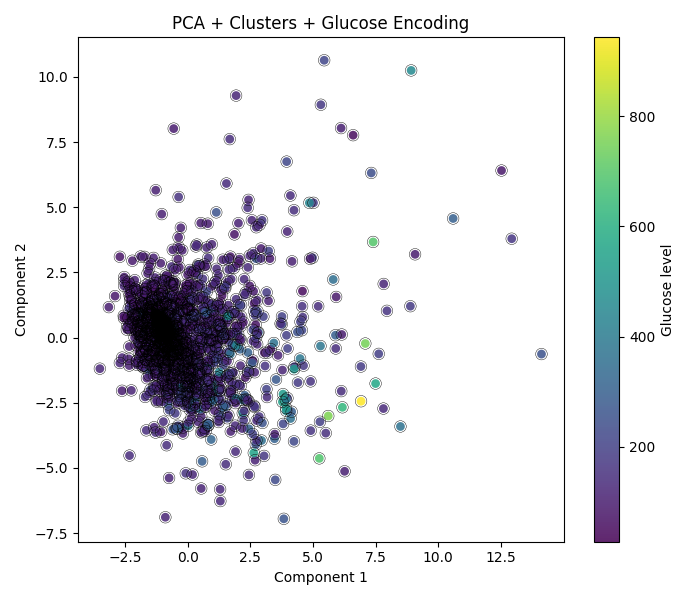
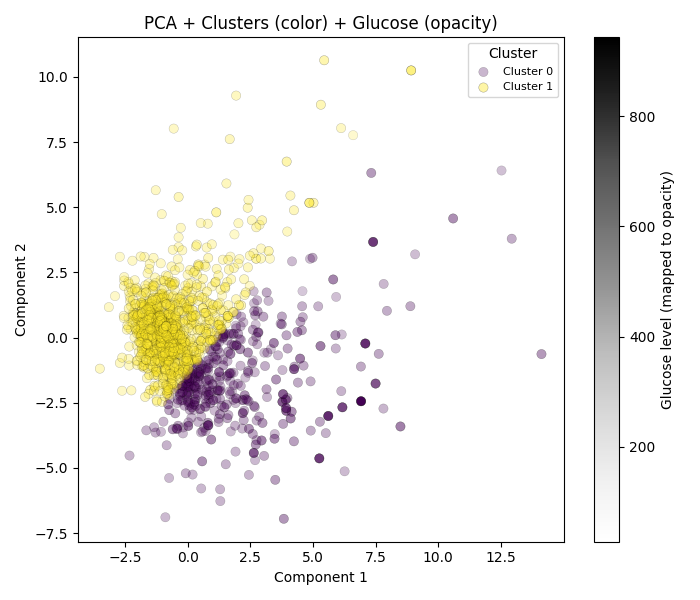
updated 3rd part

diff --git a/scripts/dim_reduction_clustering.py b/scripts/dim_reduction_clustering.py
@@ -1,5 +1,7 @@
 import matplotlib.pyplot as plt
 import numpy as np
+from matplotlib.cm import ScalarMappable
+from matplotlib.colors import Normalize
 from sklearn.decomposition import PCA
 from sklearn.manifold import TSNE
 from sklearn.cluster import KMeans
@@ -69,38 +71,39 @@ def encode_glucose_in_scatterplot(reduced_x, cluster_labels, df, method_name, sa
     if glucose_col not in df.columns:
         raise ValueError(f"Column '{glucose_col}' not found in dataframe.")
 
-    glucose_values = df[glucose_col]
+    glucose_values = df[glucose_col].fillna(df[glucose_col].median())
 
-    glucose_values = glucose_values.fillna(glucose_values.median())
+    g_min, g_max = glucose_values.min(), glucose_values.max()
+    glucose_alpha = 0.2 + 0.8 * (glucose_values - g_min) / (g_max - g_min)
 
-    plt.figure(figsize=(7, 6))
-    scatter = plt.scatter(
-        reduced_x[:, 0],
-        reduced_x[:, 1],
-        c=glucose_values,
-        cmap="viridis",
-        alpha=0.85,
-        s=40,
-        edgecolor="none"
-    )
+    cmap = plt.cm.get_cmap("viridis", len(np.unique(cluster_labels)))
 
-    plt.title(f"{method_name} + Clusters + Glucose Encoding")
-    plt.xlabel("Component 1")
-    plt.ylabel("Component 2")
+    fig, ax = plt.subplots(figsize=(7, 6))
 
     for cluster_id in np.unique(cluster_labels):
-        cluster_points = reduced_x[cluster_labels == cluster_id]
-        plt.scatter(
-            cluster_points[:, 0],
-            cluster_points[:, 1],
+        idx = np.where(cluster_labels == cluster_id)[0]
+
+        ax.scatter(
+            reduced_x[idx, 0],
+            reduced_x[idx, 1],
+            c=[cmap(cluster_id)],
+            alpha=glucose_alpha.iloc[idx],
+            s=45,
             edgecolor="black",
-            facecolor="none",
-            s=70,
-            linewidths=0.3
+            linewidths=0.3,
+            label=f"Cluster {cluster_id}"
         )
 
-    cbar = plt.colorbar(scatter)
-    cbar.set_label("Glucose level")
+    ax.set_title(f"{method_name} + Clusters (color) + Glucose (opacity)")
+    ax.set_xlabel("Component 1")
+    ax.set_ylabel("Component 2")
+    ax.legend(title="Cluster", fontsize=8)
+
+    norm = Normalize(vmin=g_min, vmax=g_max)
+    sm = ScalarMappable(cmap=plt.cm.Greys, norm=norm)
+    sm.set_array([])
+    cbar = fig.colorbar(sm, ax=ax)
+    cbar.set_label("Glucose level (mapped to opacity)")
 
     plt.tight_layout()
     plt.savefig(save_path)

diff --git a/main.py b/main.py
@@ -10,7 +10,7 @@ analyze_data(cleaned_df)
 
 ## Exercise c)
 x_scaled = prepare_data(cleaned_df)
-eval_different_clustering(x_scaled)
+# eval_different_clustering(x_scaled)
 
 # best clustering method is kmeans with k = 2
 best_k = 2
